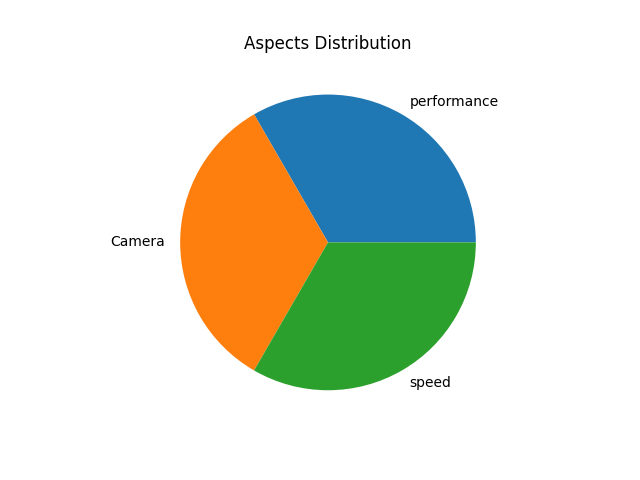
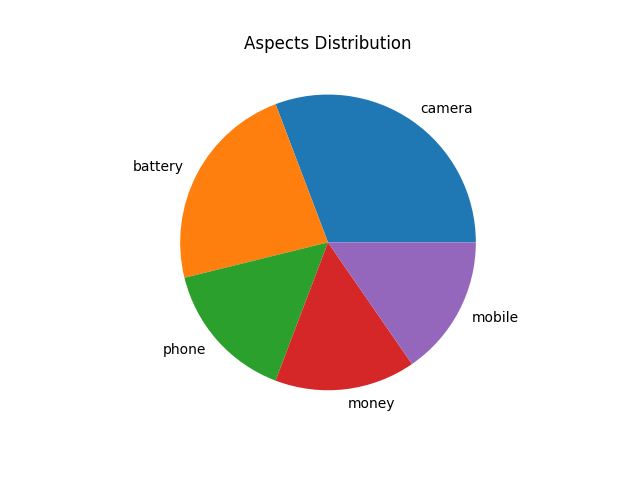
Final

diff --git a/logic/get_summary.py b/logic/get_summary.py
@@ -37,41 +37,51 @@ def make_summary(content):
     
     newData['aspects'] = temp_aspects
     newData['upvotes'] = data['upvotes']
+    newData['rating'] = data['rating']
+    total_upvotes = newData['upvotes'].sum()
     polarities = []
     for index, row in newData.iterrows():
         x = sentiment_analysis.getPolarity(row['original'],row['aspects'])    
         polarities.append(x)    
         for j in row['aspects']:
             aspect_count[j]=aspect_count[j]+1
-    # print(newData)
     # print(aspect_count)
-    
+    # print(total_upvotes)
     newData['polarity'] = polarities
     newData.sort_values("upvotes",axis=0,inplace=True,ascending=False)
-    aspect_header_score = sentiment_analysis.aspect_sentiment(selected_aspects,data,'preprocessed_header',data.shape[0])
-    aspect_text_score = sentiment_analysis.aspect_sentiment(selected_aspects,data,'preprocessed_text',data.shape[0])
-    final_score = {}
+    # print(newData)
+    aspect_rating = {}
+    aspect_upvotes = {}
+    rating_sum = {}
     for i in selected_aspects:
-        final_score[i] = [0,0,0]
-    # print(aspect_header_score)
-    # print(aspect_text_score)
+        aspect_rating[i] = 0
+        aspect_upvotes[i] = 0
+        rating_sum[i] = 0
+
+    for index, row in newData.iterrows():
+        for a,p in row['polarity'].items():
+            if str(p) =='Sentiment.negative':
+                aspect_rating[a] -=row['upvotes']
+            elif str(p) =='Sentiment.positive':
+                aspect_rating[a] +=row['upvotes']
+            aspect_upvotes[a]+=row['upvotes']
+            rating_sum[a]+=row['rating']
+    # print(rating_sum)
+    rating_average = rating_sum
     for i in selected_aspects:
-        for j in range(len(aspect_header_score[i])):
-            final_score[i][j] = (3*aspect_header_score[i][j]+2*aspect_text_score[i][j])
-    ratings = {}
+        rating_average[i] = rating_sum[i]/aspect_count[i]
+    # print(rating_average)
     for i in selected_aspects:
-        ratings[i] = 0
-    rating_avg = data['rating'].mean()
+        aspect_rating[i]/=aspect_upvotes[i]
+        aspect_rating[i]+=1
+        aspect_rating[i]*=2
+        aspect_rating[i]+=1
+    ratings = aspect_rating
+    # print(ratings)
     for i in selected_aspects:
-        if final_score[i][0]+5-abs(final_score[i][1]-final_score[i][2])>=3.5:
-            ratings[i] = 3
-        elif final_score[i][1]>=final_score[i][2]:
-            ratings[i] = 5-final_score[i][1]
-        else:
-            ratings[i] = final_score[i][2]
-        ratings[i] = pow(ratings[i]*rating_avg,.5)
+        ratings[i] = pow(ratings[i]*rating_average[i],0.5)
+    # print(ratings)
     rating = {}
-    
     for i in selected_aspects:
         if ratings[i]>=3:
             rating[i] = "Sentiment.positive"

diff --git a/logic/sentiment_analysis.py b/logic/sentiment_analysis.py
@@ -16,10 +16,10 @@ def aspect_sentiment(selected_aspects,data,column,n):
     sum = 0
     for index, row in data.head(n).iterrows():
         aspects_output = absaNLP(row[column],aspects=selected_aspects)
-        sum+=pow(row['upvotes'],0.5)  
+        sum+=pow(row['upvotes'],0.2)  
         for i in range(len(selected_aspects)):  
             temp1 = aspects_output.subtasks[selected_aspects[i]].examples[0].scores
-            x = [k*pow(row['upvotes'],0.5) for k in temp1]
+            x = [k*pow(row['upvotes'],0.2) for k in temp1]
             aspects_score[selected_aspects[i]] = list(map(add, aspects_score[selected_aspects[i]], x))
     for i in range(len(selected_aspects)):    
         temp = aspects_score[selected_aspects[i]]

diff --git a/logic/get_aspects.py b/logic/get_aspects.py
@@ -15,7 +15,7 @@ def find_aspects(content):
     data["final_text"] = data["preprocessed_header"] + ' '+data["preprocessed_text"]
 
     data['aspects'] = data['final_text'].apply(lambda x:aspect_extractor.extract_aspects(x))
-    aspect_list = aspect_extractor.final_aspects(data,20)
+    aspect_list = aspect_extractor.final_aspects(data,10)
     data.to_csv('./data/intermediate/'+content['file_name']+'.csv')
     return aspect_list
     
